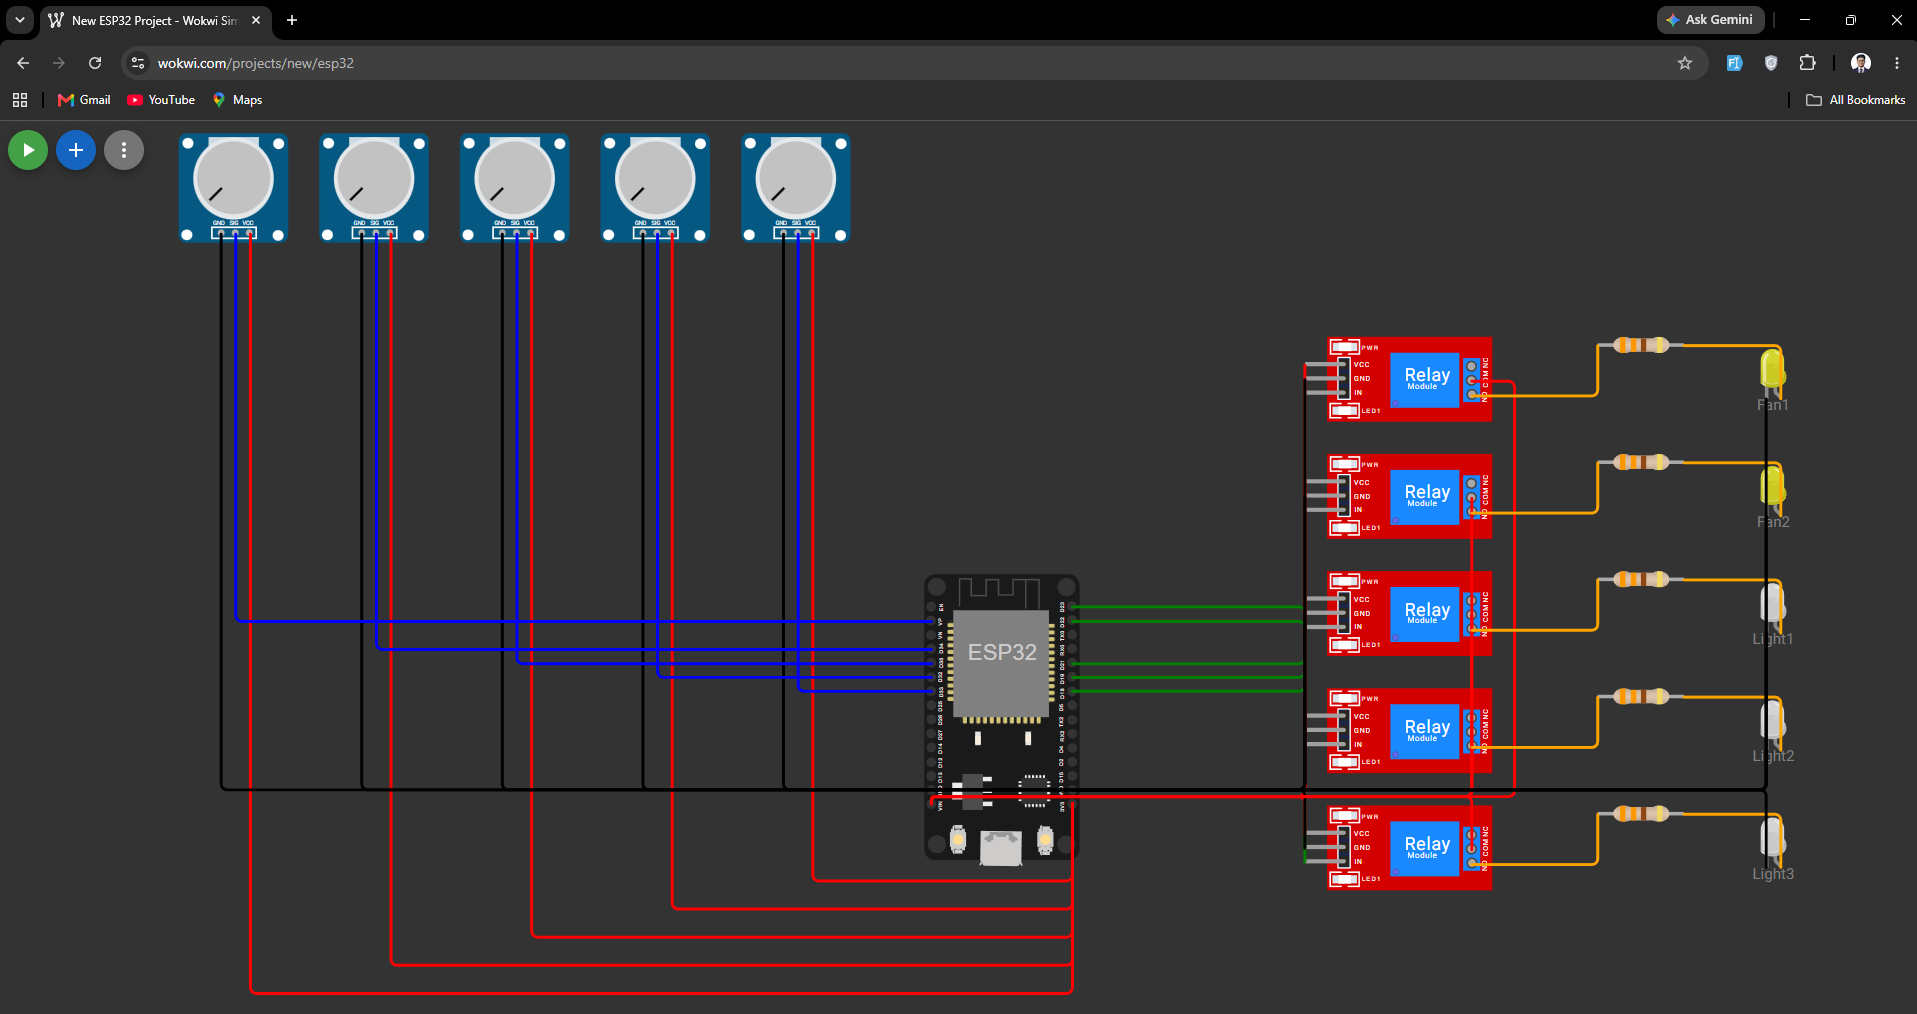
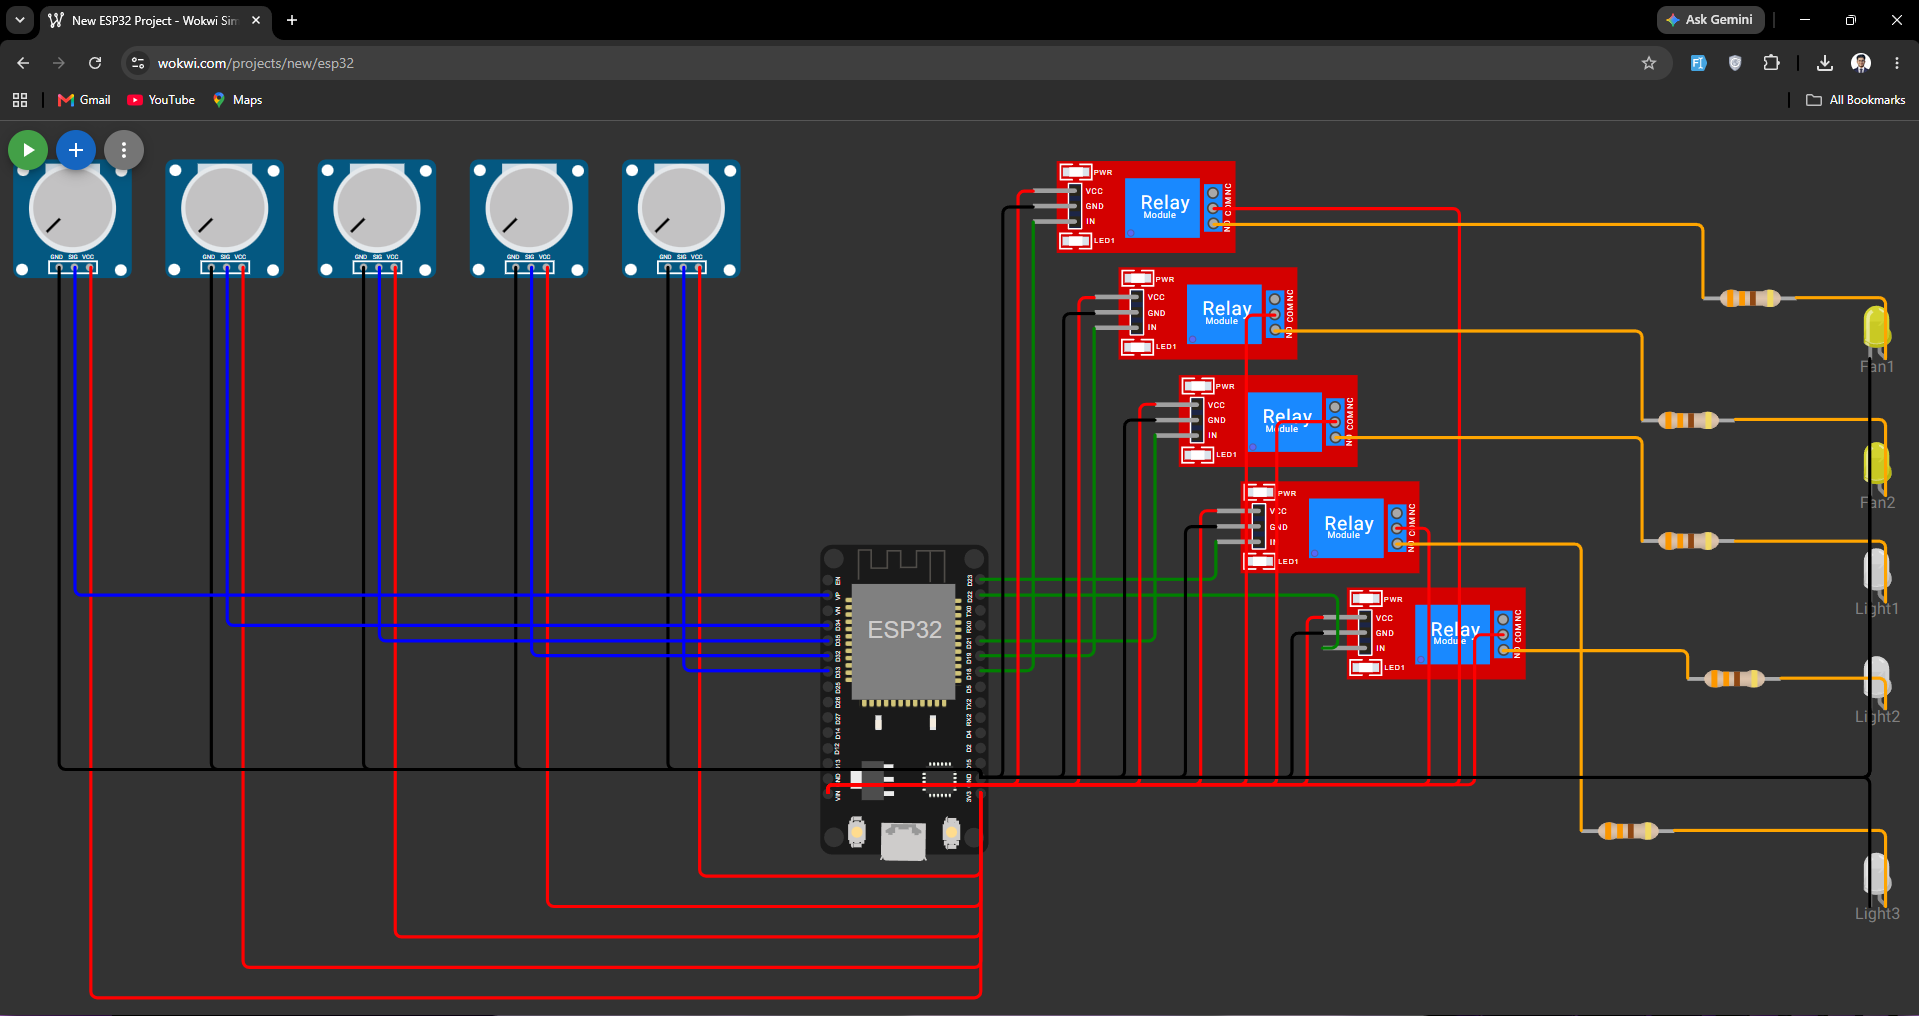
[UPDATE] update readme file for electrical diagram link and image

diff --git a/README.md b/README.md
@@ -37,7 +37,9 @@ last-changed timestamp.
 
 ![IoT hardware schematic diagram](./images/iotDiagram.png)
 
-> 🔌 [View / Download hardware schematic (Google Drive)](https://drive.google.com/file/d/1HcfKdvwNvdMNpbM4zAZpedssS3ojP37T/view?usp=sharing)
+> 🔌 [View / Download hardware schematic (Google Drive)](https://drive.google.com/file/d/1HcfKdvwNvdMNpbM4zAZpedssS3ojP37T/view?usp=sharing) · [Live interactive diagram on Wokwi](https://wokwi.com/projects/468619032049339393)
+>
+> *Designed with [Wokwi](https://wokwi.com)*
 
 Three cooperating parts:
 